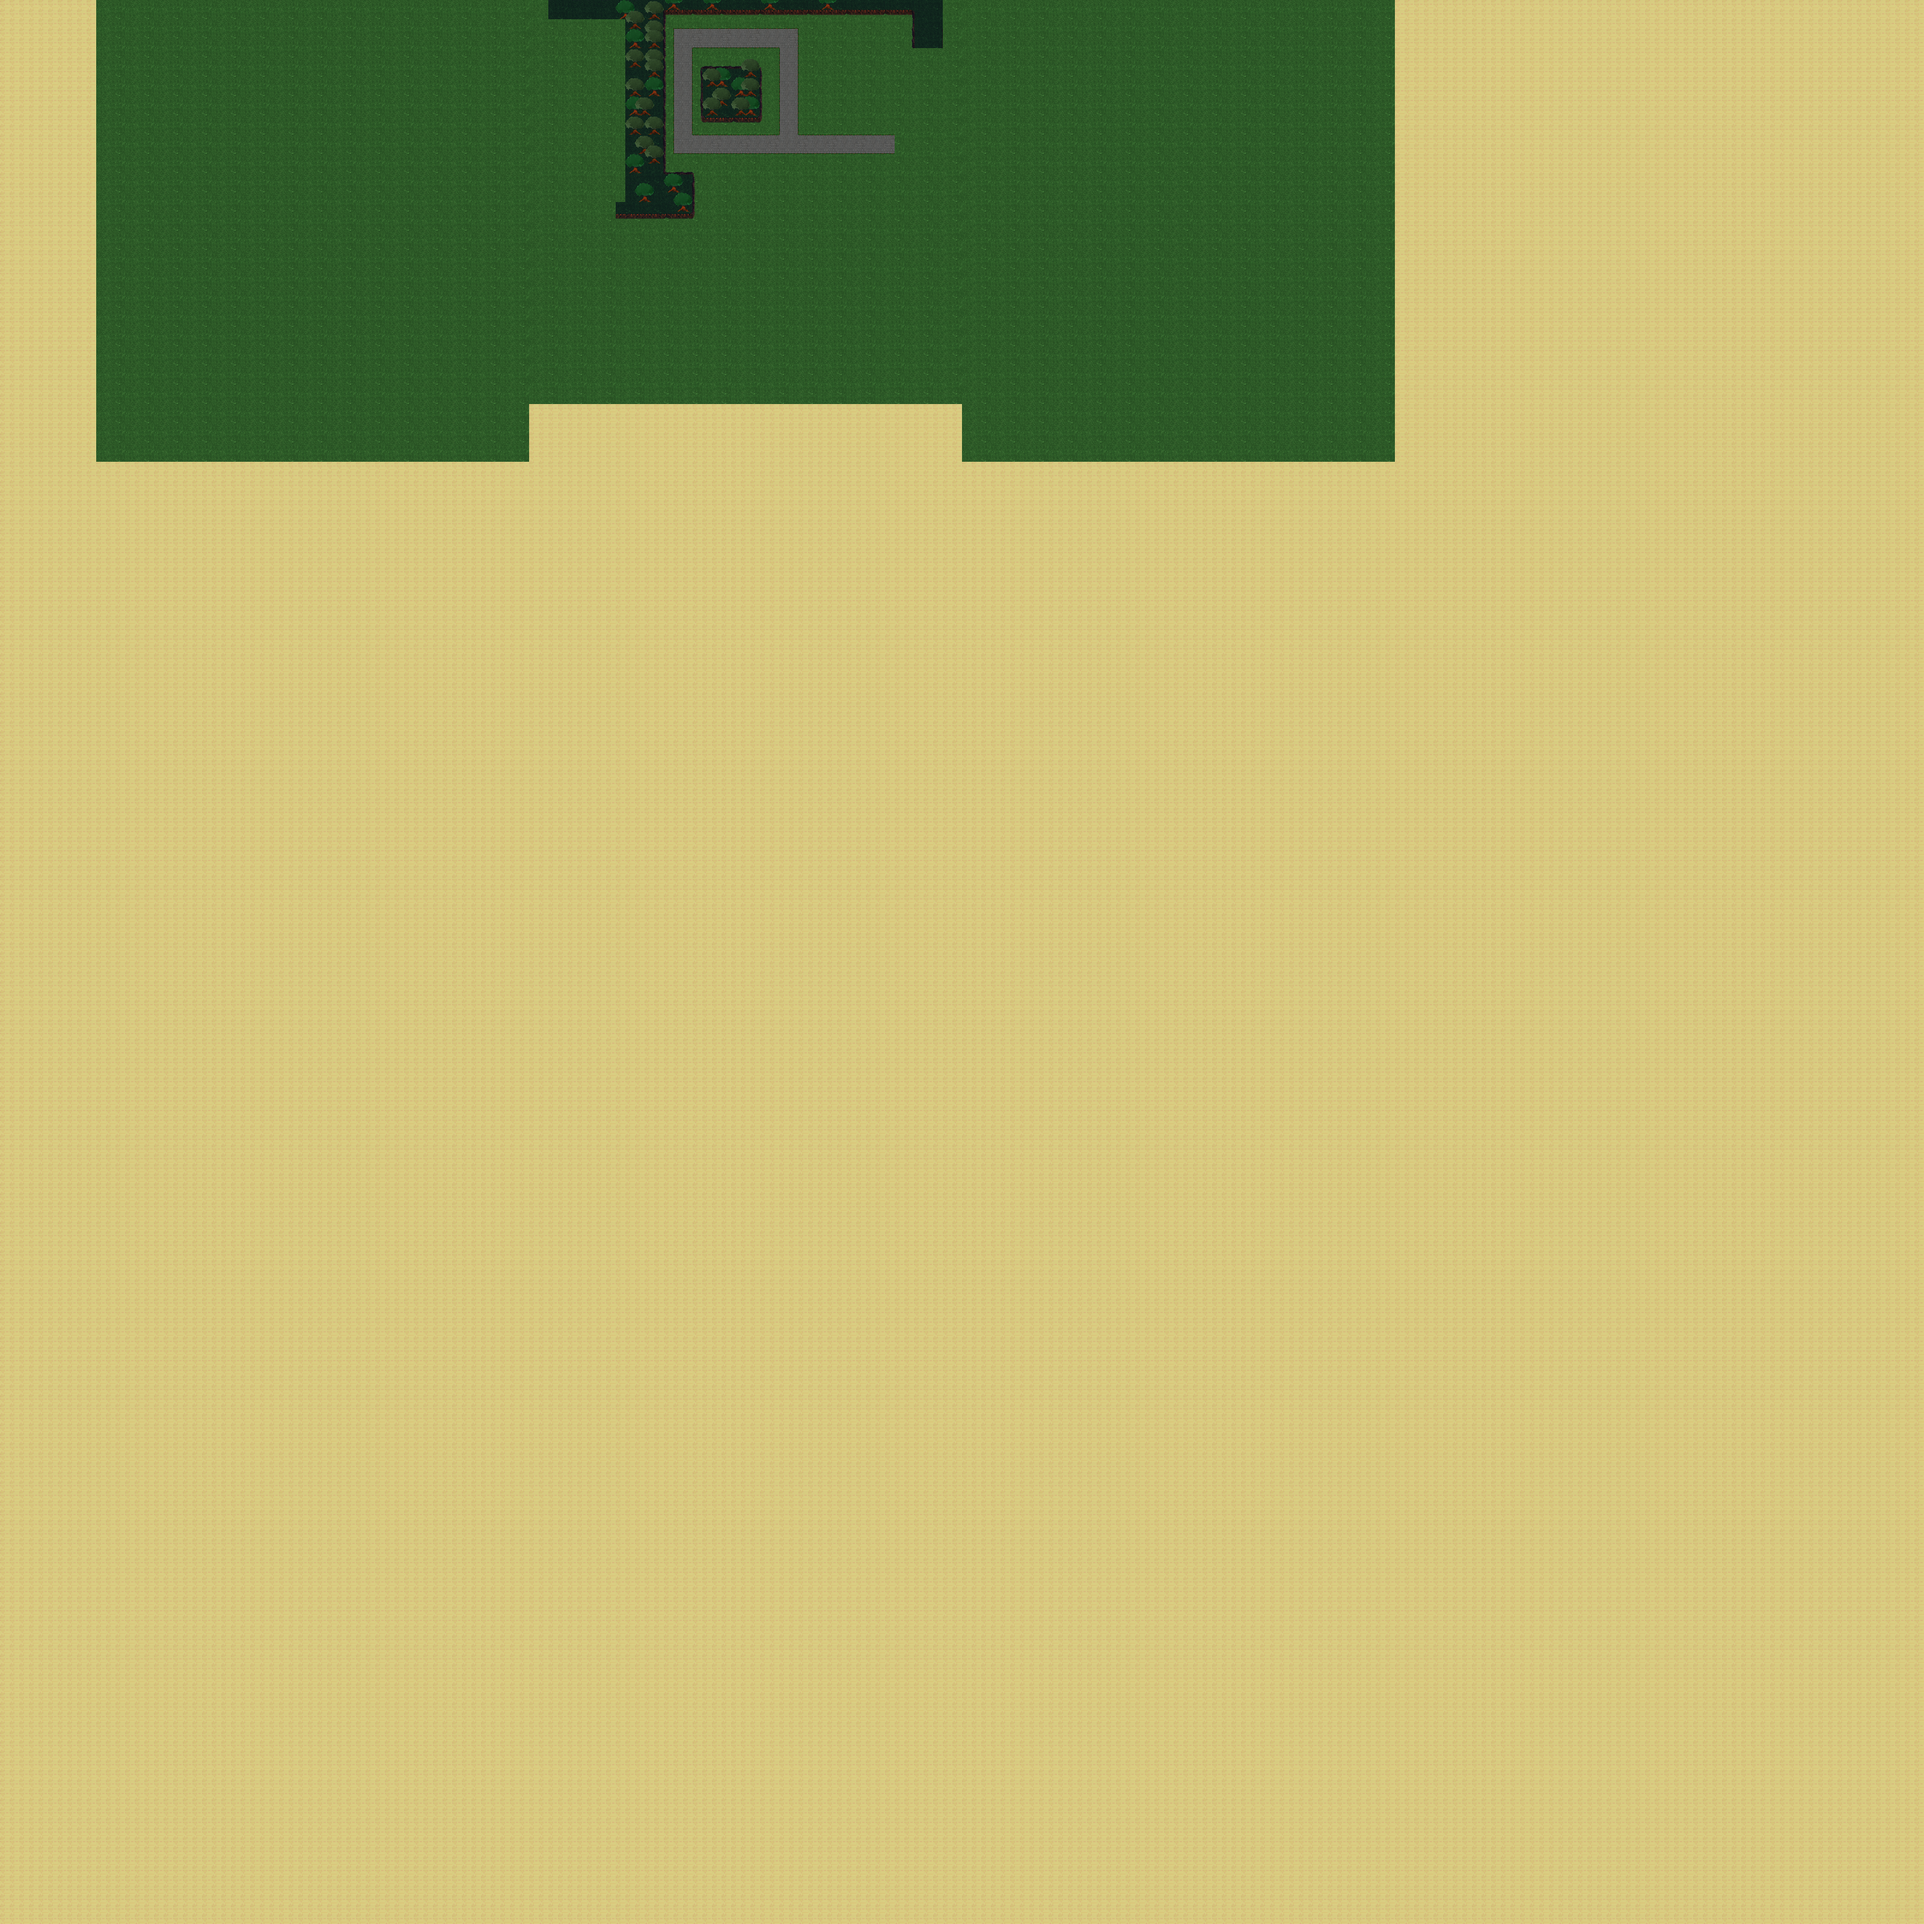
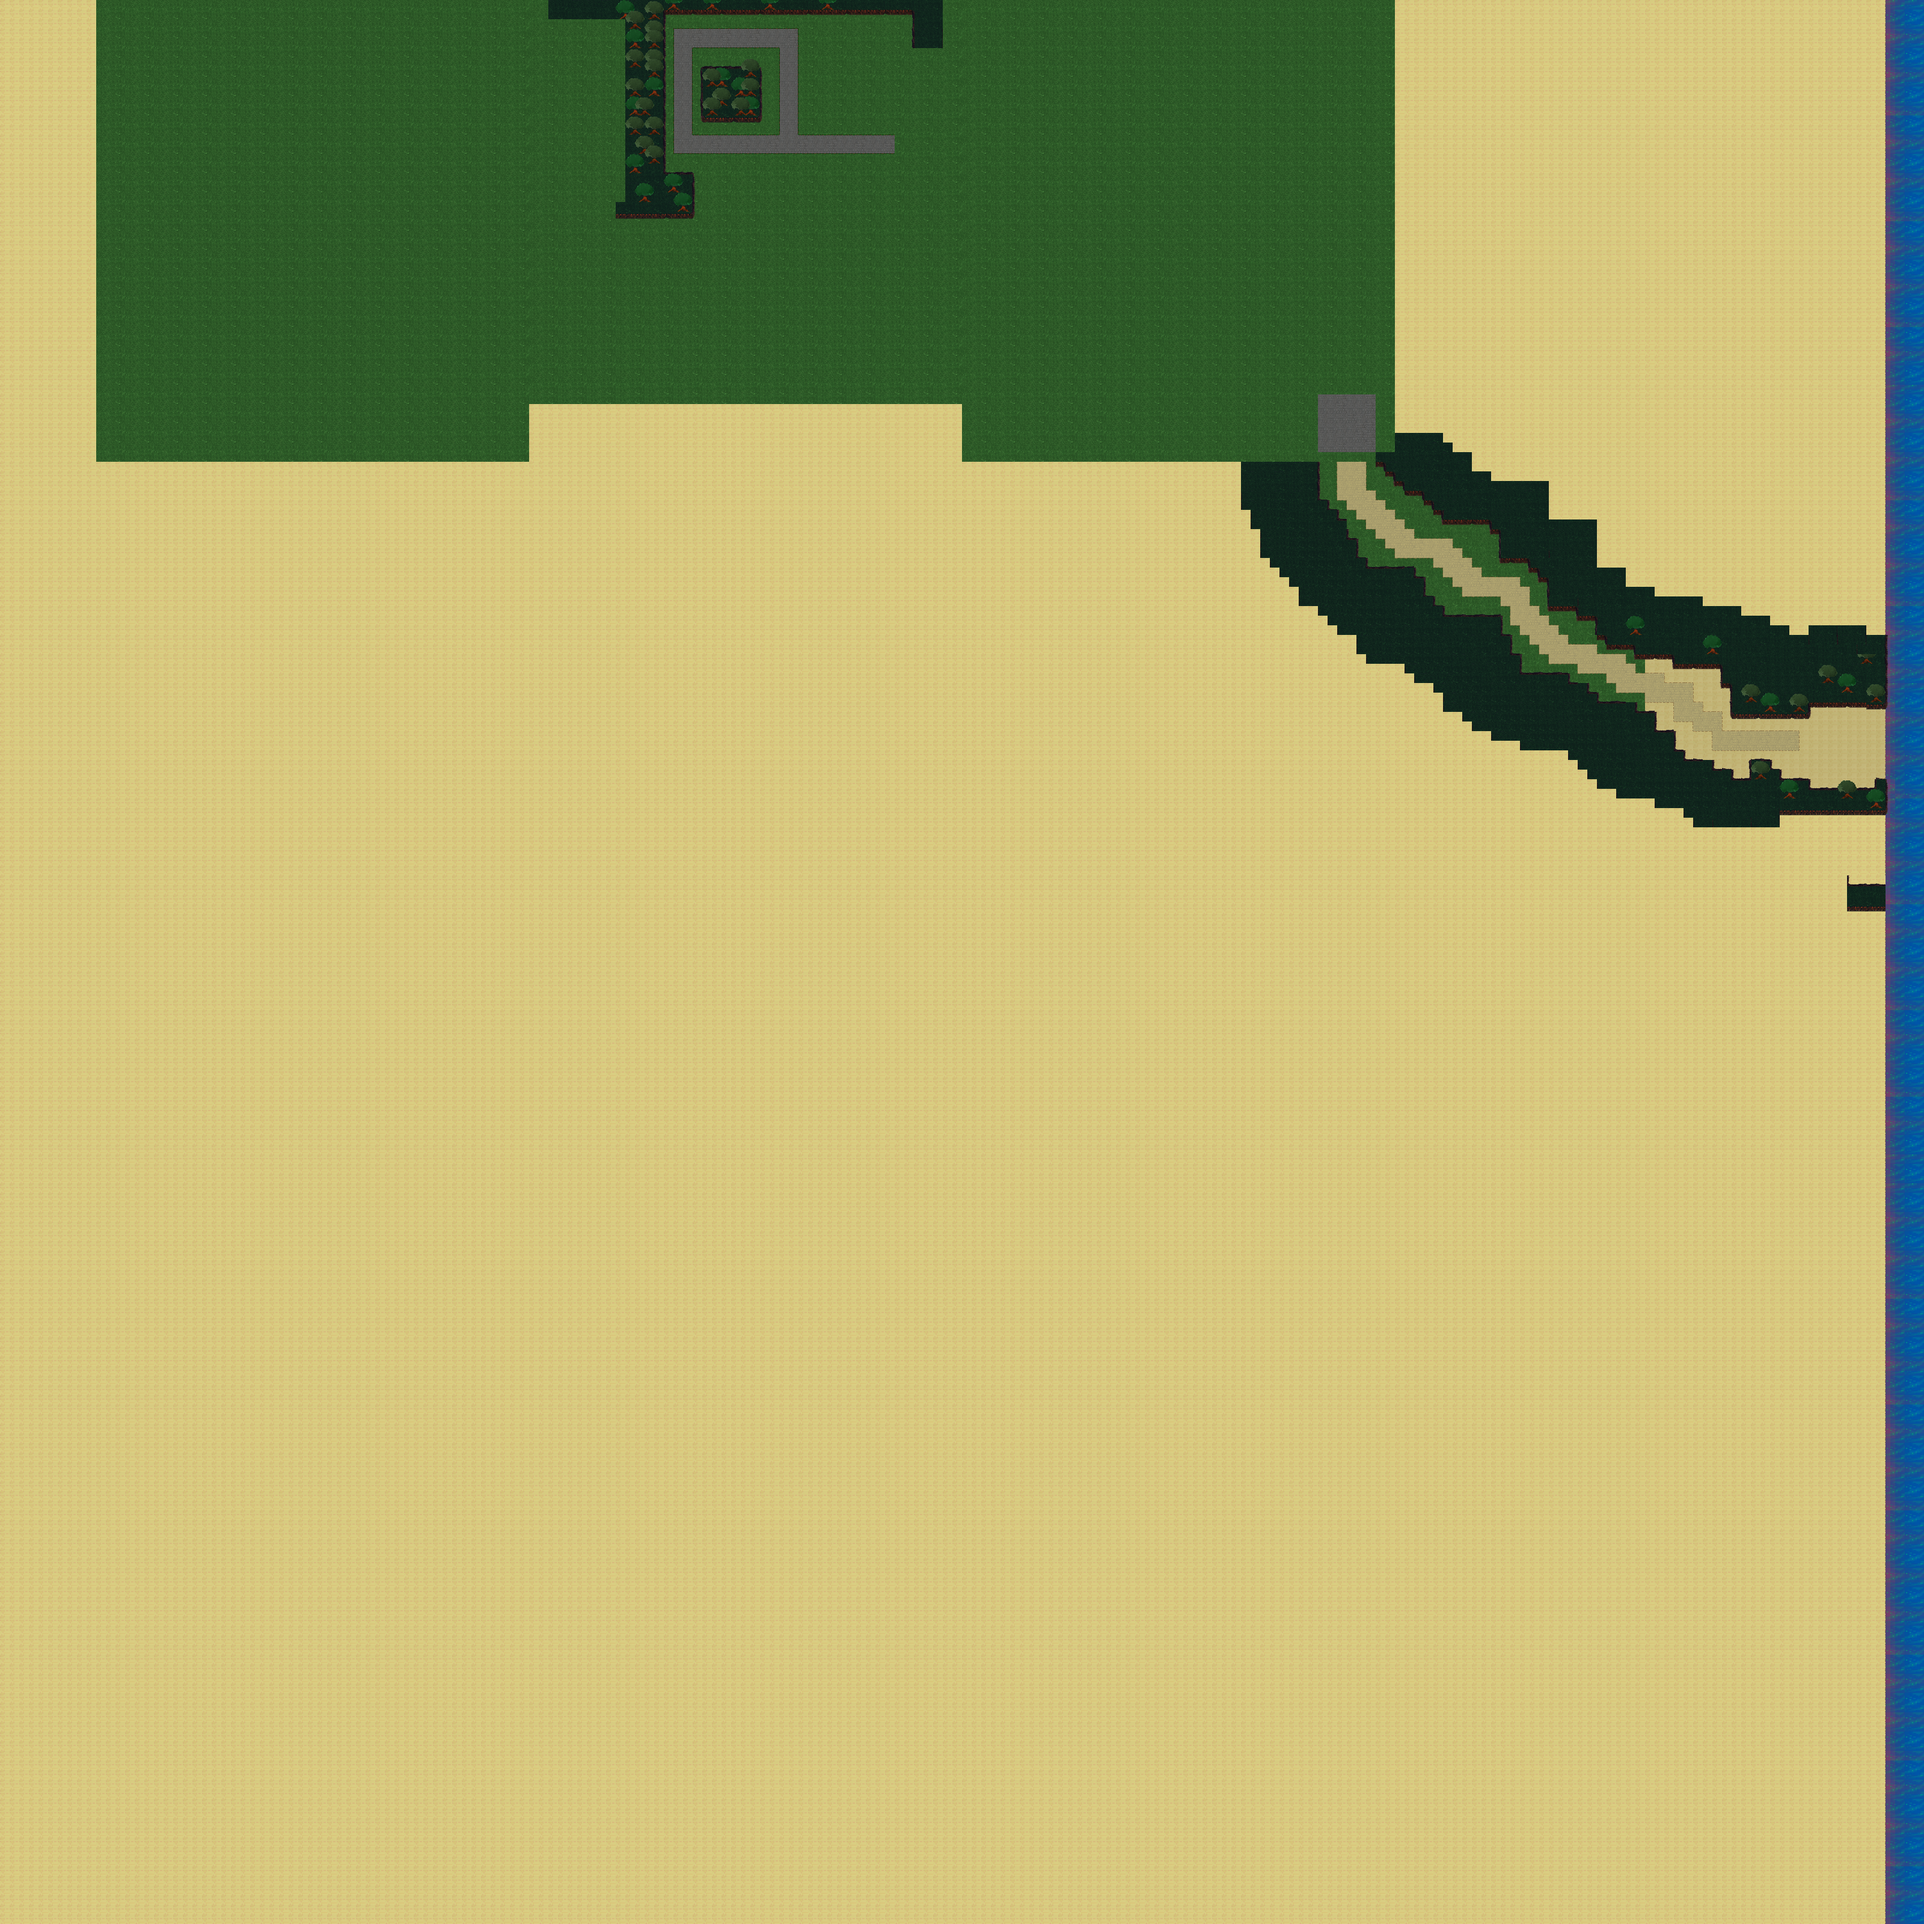
added another arm to the map, starts of beach to forest for dungeon

Changed region(s): [[0.625, 0.0, 1.0, 1.0]]

diff --git a/main.js b/main.js
@@ -51,7 +51,7 @@ function resize(){
 function add_player(team){
 	var playername = "p" + socket.io.engine.id;
 	var newplayerdata = {};
-	newplayerdata[playername] = {"pos":"576.64","dir":"2","state":"0","effects":{},"health":140,"maxHealth":140,"gold":0,"mana":100,"maxMana":100,"cor":0,"maxCor":200,"alerttimer":0,"team":team,"slot0":"-","slot1":"Dull Dagger","slot2":"Small Sword","slot3":"-","inventory":[{"name":"Dull Dagger","quantity":1},{"name":"Small Sword","quantity":1},{"name":"mana","quantity":5},{"name":"health","quantity":5},{"name":"gold","quantity":5},{"name":"Shield","quantity":1},{"name":"Vanish","quantity":1}],"abilities":[{"name":"Orb Of Healing","quantity":1},{"name":"PoinsonShot","quantity":1}],"origin":"576.64","closeChunks":[],"h":4,"w":4};
+	newplayerdata[playername] = {"pos":"1500.576","dir":"2","state":"0","effects":{},"health":140,"maxHealth":140,"gold":0,"mana":100,"maxMana":100,"cor":0,"maxCor":200,"alerttimer":0,"team":team,"slot0":"-","slot1":"Dull Dagger","slot2":"Small Sword","slot3":"-","inventory":[{"name":"Dull Dagger","quantity":1},{"name":"Small Sword","quantity":1},{"name":"mana","quantity":5},{"name":"health","quantity":5},{"name":"gold","quantity":5},{"name":"Shield","quantity":1},{"name":"Vanish","quantity":1}],"abilities":[{"name":"Orb Of Healing","quantity":1},{"name":"PoinsonShot","quantity":1}],"origin":"576.64","closeChunks":[],"h":4,"w":4};
 	console.log(newplayerdata);
 	userplayer = playername;
 	var elem = document.getElementById("chooseteam");
